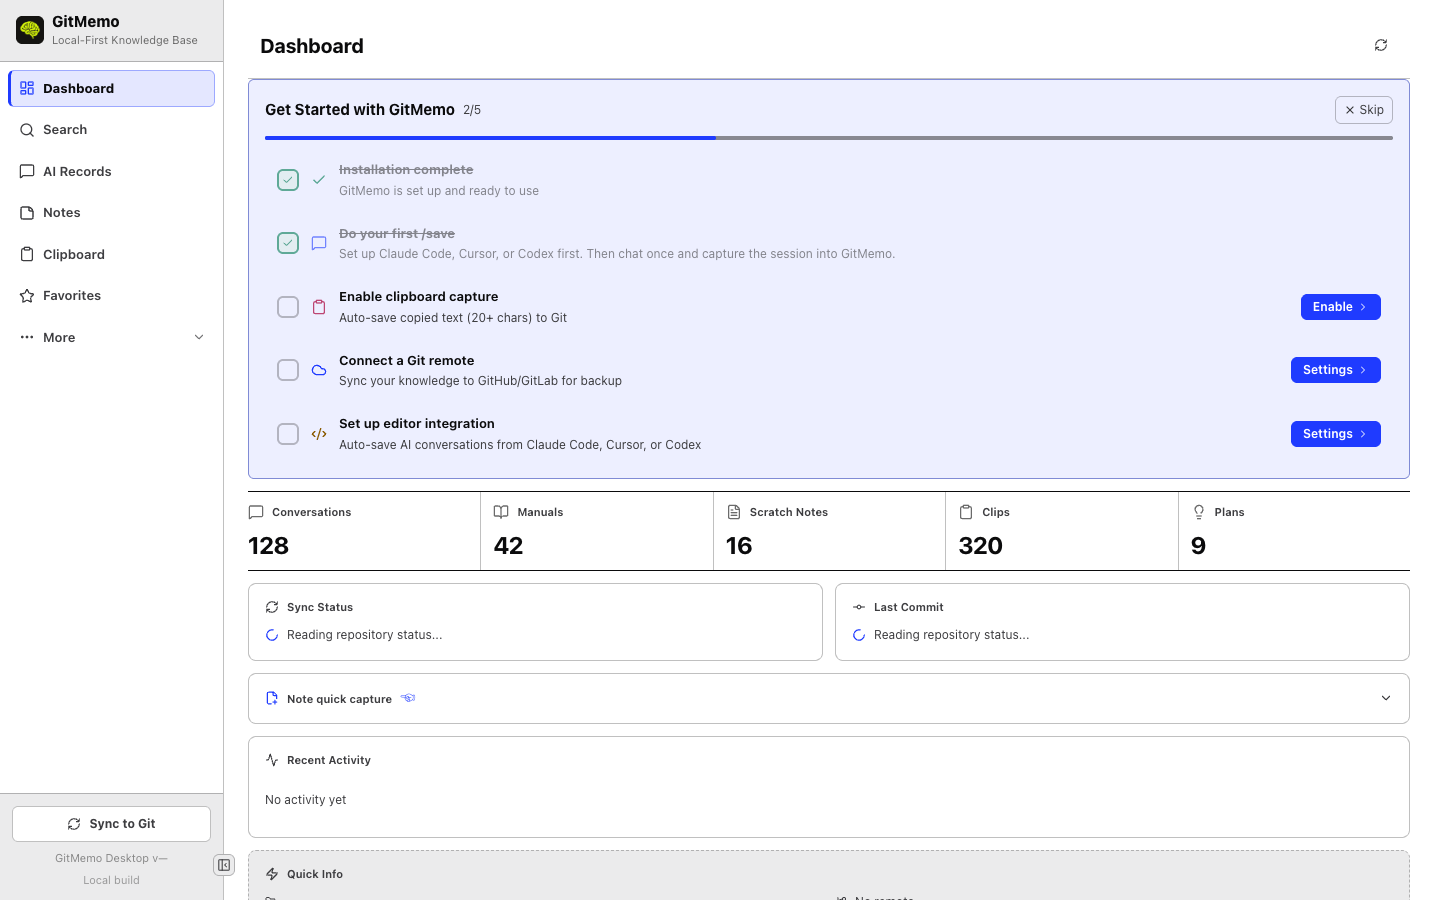
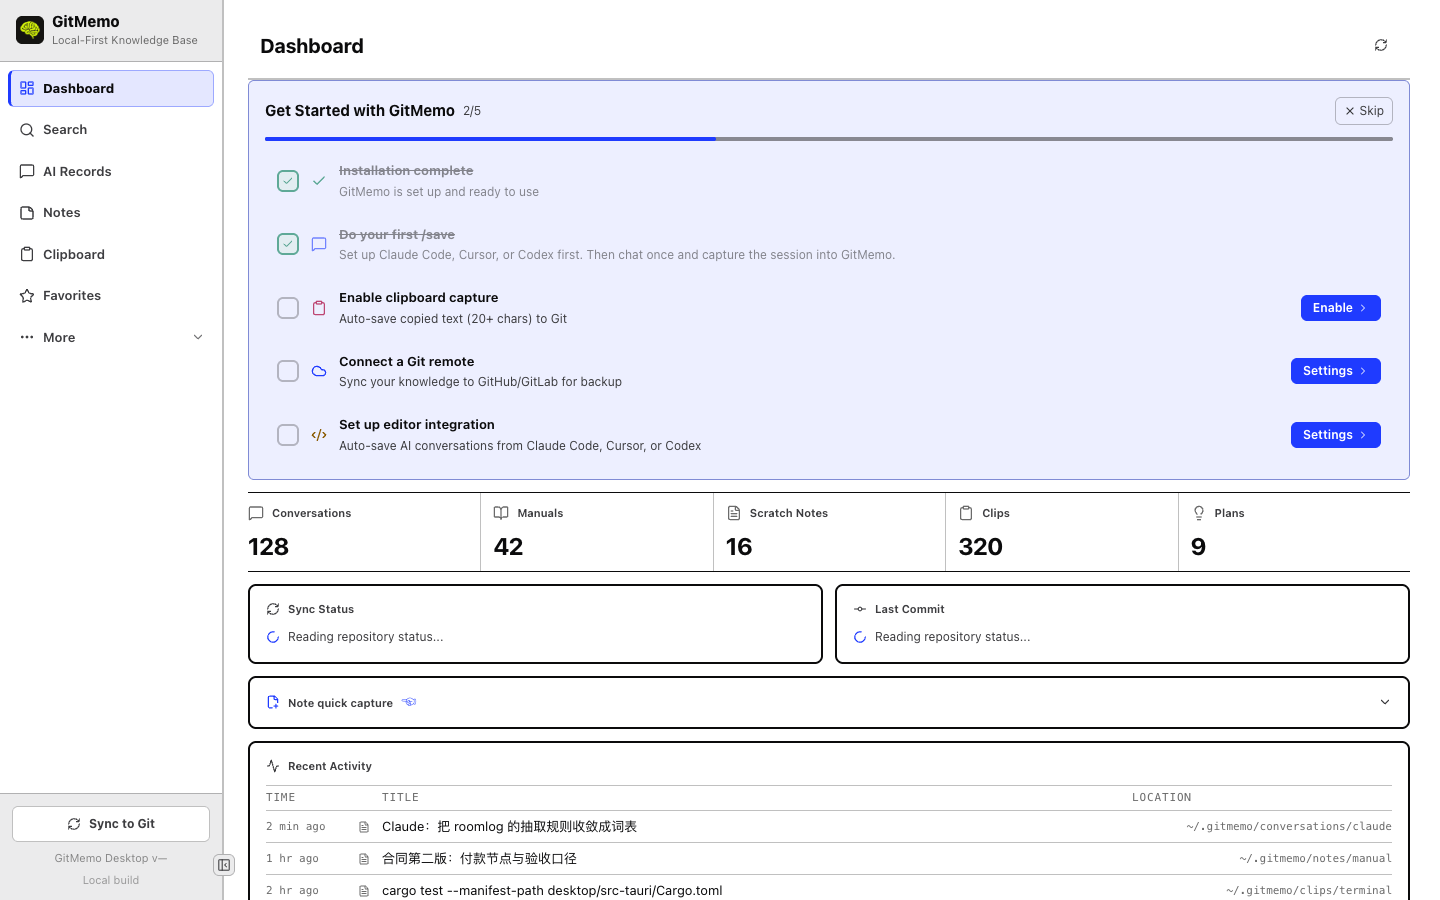
feat(desktop): render recent activity as a four-column table
Time / type glyph / title / location, hairline rows, no card wrapper.
Screenshot stub now returns sample activity so populated states are visible.

diff --git a/desktop/src/index.css b/desktop/src/index.css
@@ -5363,6 +5363,81 @@ a:focus-visible {
   font-weight: 560;
 }
 
+.gm-dash-table {
+  border-top: 1px solid var(--gm-line);
+  display: flex;
+  flex-direction: column;
+}
+
+.gm-dash-thead {
+  align-items: center;
+  border-bottom: 1px solid var(--gm-line);
+  color: var(--gm-text-3);
+  display: grid;
+  font-family: var(--gm-font-mono);
+  font-size: var(--gm-font-2xs);
+  gap: var(--gm-space-3);
+  grid-template-columns: 84px 16px minmax(0, 1fr) minmax(0, 260px);
+  letter-spacing: 0.08em;
+  padding: var(--gm-space-2) 0;
+  text-transform: uppercase;
+}
+
+.gm-dash-trow {
+  align-items: center;
+  background: transparent;
+  border: 0;
+  border-bottom: 1px solid var(--gm-line);
+  color: var(--gm-text);
+  cursor: pointer;
+  display: grid;
+  font: inherit;
+  gap: var(--gm-space-3);
+  grid-template-columns: 84px 16px minmax(0, 1fr) minmax(0, 260px);
+  min-height: 32px;
+  padding: var(--gm-space-1) 0;
+  text-align: left;
+  width: 100%;
+}
+
+.gm-dash-trow:hover {
+  background: var(--gm-hover);
+}
+
+.gm-dash-trow:focus-visible {
+  outline: 2px solid var(--gm-accent);
+  outline-offset: -2px;
+}
+
+.gm-dash-cell-time {
+  color: var(--gm-text-3);
+  font-family: var(--gm-font-mono);
+  font-size: var(--gm-font-2xs);
+}
+
+.gm-dash-cell-title {
+  font-size: var(--gm-font-sm);
+  overflow: hidden;
+  text-overflow: ellipsis;
+  white-space: nowrap;
+}
+
+.gm-dash-cell-path {
+  color: var(--gm-text-3);
+  font-family: var(--gm-font-mono);
+  font-size: var(--gm-font-2xs);
+  overflow: hidden;
+  text-align: right;
+  text-overflow: ellipsis;
+  white-space: nowrap;
+}
+
+@media (max-width: 900px) {
+  .gm-dash-thead { display: none; }
+  .gm-dash-trow { grid-template-columns: 64px 16px minmax(0, 1fr); }
+  .gm-dash-cell-path { display: none; }
+}
+
 .gm-dashboard-activity-list {
   display: flex;
   flex-direction: column;

diff --git a/desktop/src/pages/DashboardPage.tsx b/desktop/src/pages/DashboardPage.tsx
@@ -648,19 +648,29 @@ export default function DashboardPage({ onNavigate, active = false }: { onNaviga
               {t("dashboard.noActivity")}
             </p>
           ) : (
-            <div className="gm-dashboard-activity-list">
+            <div className="gm-dash-table" role="table" aria-label={t("dashboard.recentActivity")}>
+              <div className="gm-dash-thead" role="row">
+                <span>{t("dashboard.tableTime")}</span>
+                <span aria-hidden="true" />
+                <span>{t("dashboard.tableTitle")}</span>
+                <span>{t("dashboard.tablePath")}</span>
+              </div>
               {displayedRecent.map((item) => {
                 const cfg = getCategoryVisual(item.category);
+                const parentPath = item.path.split("/").slice(0, -1).join("/");
                 return (
-                  <DashboardActivityRow
+                  <button
                     key={item.path}
+                    type="button"
+                    role="row"
+                    className="gm-dash-trow"
                     onClick={() => openRecord(item)}
-                    icon={cfg.icon}
-                    tone={cfg.tone}
-                    title={item.name}
-                    time={relativeTime(item.modified, t)}
-                    mobile={isMobile}
-                  />
+                  >
+                    <span className="gm-dash-cell-time">{relativeTime(item.modified, t)}</span>
+                    <AppIcon icon={cfg.icon} size="2xs" tone={cfg.tone} />
+                    <span className="gm-dash-cell-title">{item.name}</span>
+                    <span className="gm-dash-cell-path" title={item.path}>{parentPath}</span>
+                  </button>
                 );
               })}
             </div>
